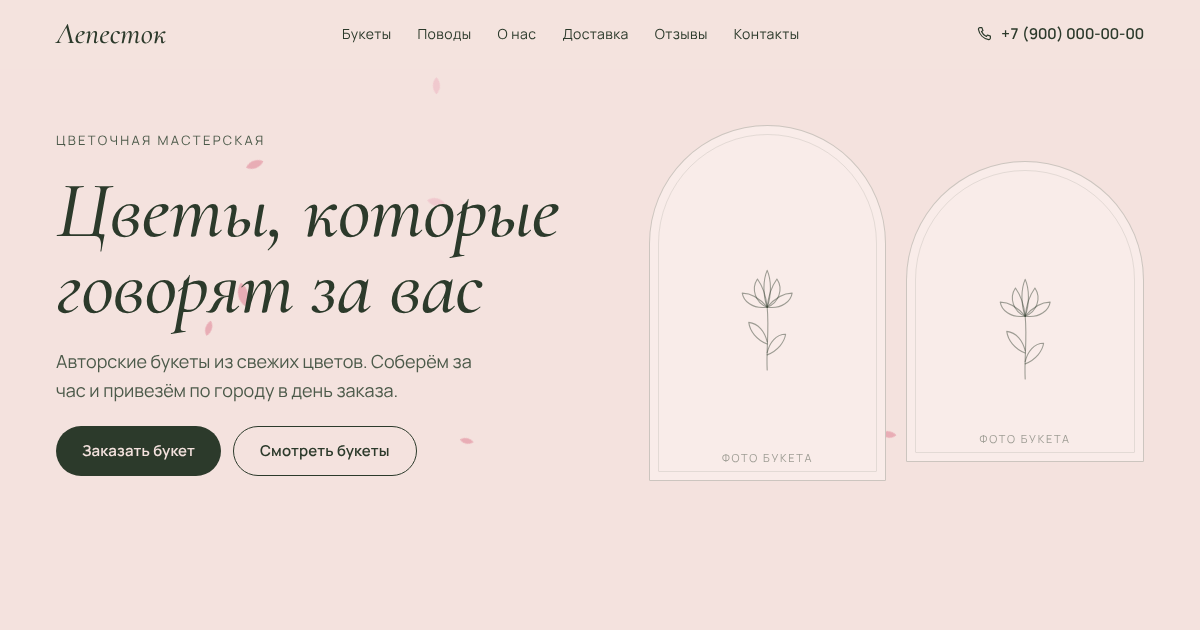
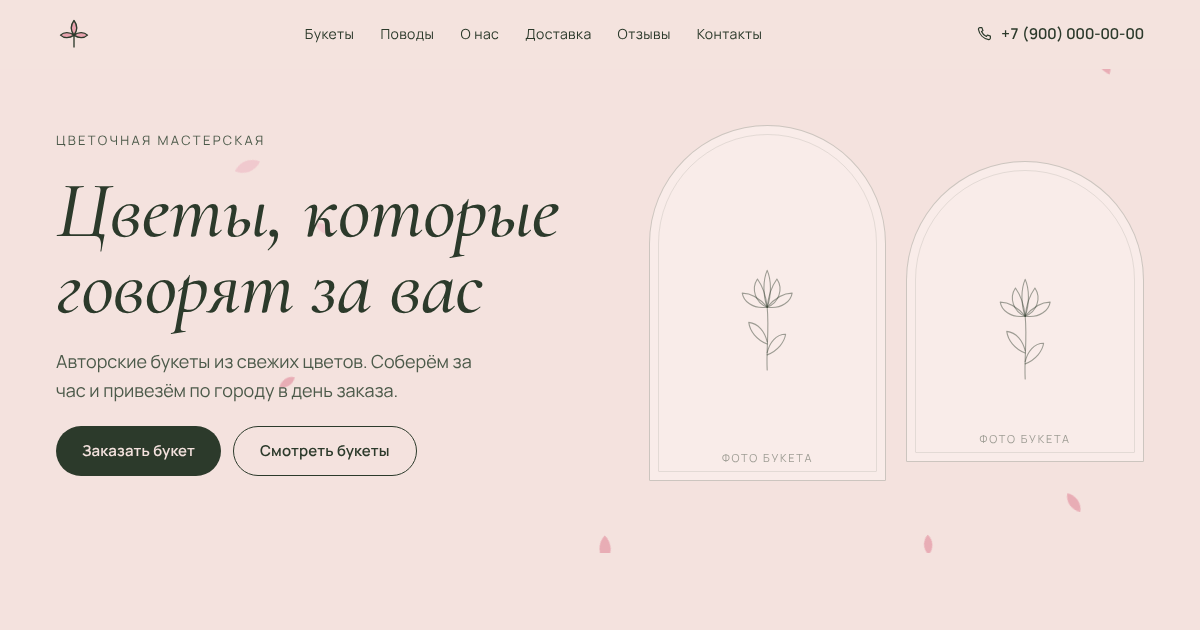
Remove shop name and delivery/timing terms per owner request
Claude-Session: https://claude.ai/code/session_01EoAQkxsYWH44UKVTMQCAPP

diff --git a/index.html b/index.html
@@ -5,12 +5,12 @@
   <meta name="viewport" content="width=device-width, initial-scale=1, viewport-fit=cover">
 
   <!-- КЛИЕНТ: название, описание, адрес сайта и картинка превью -->
-  <title>Лепесток — цветочная мастерская</title>
+  <title>Цветочная мастерская — букеты с доставкой</title>
   <meta name="description" content="Авторские букеты из свежих цветов с доставкой по городу в день заказа. Закажите по телефону +7 (900) 000-00-00.">
   <meta property="og:type" content="website">
   <meta property="og:locale" content="ru_RU">
-  <meta property="og:site_name" content="Лепесток">
-  <meta property="og:title" content="Лепесток — цветочная мастерская">
+  <meta property="og:site_name" content="Цветочная мастерская">
+  <meta property="og:title" content="Цветочная мастерская — букеты с доставкой">
   <meta property="og:description" content="Авторские букеты из свежих цветов. Доставка по городу в день заказа.">
   <meta property="og:url" content="https://za1tex.github.io/flowers/">
   <meta property="og:image" content="https://za1tex.github.io/flowers/img/og.png">
@@ -25,7 +25,7 @@
   {
     "@context": "https://schema.org",
     "@type": "Florist",
-    "name": "Лепесток",
+    "name": "Цветочная мастерская",
     "description": "Цветочная мастерская: авторские букеты с доставкой по городу.",
     "telephone": "+79000000000",
     "url": "https://za1tex.github.io/flowers/",
@@ -51,8 +51,8 @@
 
   <header class="site-header">
     <div class="container header-row">
-      <!-- КЛИЕНТ: название магазина -->
-      <a class="logo" href="#top">Лепесток</a>
+      <!-- КЛИЕНТ: логотип. В демо названия нет, только знак-цветок -->
+      <a class="logo logo-mark" href="#top" aria-label="Наверх"><svg viewBox="0 0 32 32" aria-hidden="true"><path d="M16 4c3 4 3 9 0 13-3-4-3-9 0-13zm0 13c4-3 9-3 12 0-3 3-8 3-12 0zm0 0c-4-3-9-3-12 0 3 3 8 3 12 0zm0 0v11"/></svg></a>
       <nav class="nav" aria-label="Разделы">
         <a href="#catalog">Букеты</a>
         <a href="#occasions">Поводы</a>
@@ -253,8 +253,6 @@
         </ol>
         <div class="terms" data-reveal>
           <ul>
-            <li><b>Доставка по городу</b> 300 ₽, бесплатно при заказе от 5 000 ₽</li>
-            <li><b>Сроки</b> от 2 часов, к точному времени по договорённости</li>
             <li><b>Оплата</b> картой, переводом или наличными курьеру</li>
             <li><b>Самовывоз</b> ул. Цветочная, 1, ежедневно с 8:00 до 21:00</li>
           </ul>
@@ -318,8 +316,8 @@
 
   <footer class="site-footer">
     <div class="container footer-row">
-      <a class="logo" href="#top">Лепесток</a>
-      <p>© 2026 Лепесток. Цветочная мастерская.</p>
+      <a class="logo logo-mark" href="#top" aria-label="Наверх"><svg viewBox="0 0 32 32" aria-hidden="true"><path d="M16 4c3 4 3 9 0 13-3-4-3-9 0-13zm0 13c4-3 9-3 12 0-3 3-8 3-12 0zm0 0c-4-3-9-3-12 0 3 3 8 3 12 0zm0 0v11"/></svg></a>
+      <p>© 2026 Цветочная мастерская</p>
     </div>
   </footer>
 

diff --git a/tests/check.js b/tests/check.js
@@ -8,7 +8,7 @@ const ROOT = path.resolve(__dirname, '..');
 const URL = 'file://' + path.join(ROOT, 'index.html');
 
 // ===== КЛИЕНТ: поменять в копии сайта для клиента =====
-const SHOP_NAME = 'Лепесток';          // должно входить в <title>
+const SHOP_NAME = 'Цветочная мастерская';          // должно входить в <title>
 const PHONE_HREF = 'tel:+79000000000'; // ссылка звонка, одна на весь сайт
 const HAS_REVIEWS = true;              // false, если раздел отзывов удалён
 // ======================================================
@@ -338,6 +338,22 @@ check('color-mix-has-fallback', async () => {
     });
   }
   assert(missing.length === 0, 'no fallback: ' + missing.join(' | '));
+});
+
+// ---------- Правки владельца ----------
+check('no-shop-name', async (browser) => {
+  const { ctx, page } = await open(browser);
+  const html = await page.content();
+  await ctx.close();
+  assert(!html.includes('Лепесток'), 'shop name still on the page');
+});
+
+check('terms-without-delivery-and-timing', async (browser) => {
+  const { ctx, page } = await open(browser);
+  const t = await page.$eval('.terms', (el) => el.textContent);
+  await ctx.close();
+  assert(!t.includes('Доставка по городу') && !t.includes('Сроки'), 'removed terms still shown');
+  assert(t.includes('Оплата') && t.includes('Самовывоз'), 'kept terms missing');
 });
 
 (async () => {

diff --git a/css/style.css b/css/style.css
@@ -88,6 +88,9 @@ body::before {
 .site-header.is-scrolled { border-bottom-color: var(--line); }
 .header-row { display: flex; align-items: center; justify-content: space-between; gap: 24px; min-height: 68px; }
 .logo { font-family: var(--serif); font-style: italic; font-size: 30px; text-decoration: none; line-height: 1; }
+.logo-mark { display: inline-flex; color: var(--fg); }
+.logo-mark svg { width: 36px; height: 36px; fill: var(--petal); stroke: currentColor; stroke-width: 1.2; stroke-linejoin: round; transition: transform .6s var(--ease); }
+.logo-mark:hover svg { transform: rotate(-12deg); }
 .nav { display: flex; gap: 26px; font-size: 14px; letter-spacing: .03em; }
 .nav a { text-decoration: none; position: relative; padding: 4px 0; }
 .nav a::after {
